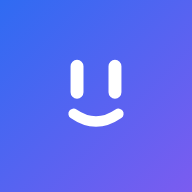
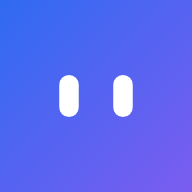
Agent simplifié : jamais les yeux et la bouche ensemble. Deux yeux expressifs (clin, regard, rire, douceur, battement avec la voix, curiosité) ou une seule ligne (onde de la voix, coche, flèche) ; icône = deux yeux

Changed region(s): [[0.2812, 0.3125, 0.7188, 0.6875]]

diff --git a/index.html b/index.html
@@ -191,7 +191,7 @@ svg{width:24px;height:24px;flex:none}
 .sujetligne .fl{color:var(--muted);font-size:1.3rem;line-height:1}
 .sujetligne:active{background:color-mix(in srgb,var(--accent) 8%,transparent)}
 .titleblock{min-width:0;flex:1}
-.marque{display:none;width:38px;height:33px;overflow:visible}
+.marque{display:none;width:40px;height:27px;overflow:visible}
 .aghome{display:block;width:min(46vw,190px);height:auto;margin:0 auto 22px;overflow:visible;cursor:pointer}
 .agconv{display:block;width:62px;height:48px;margin:0 auto 2px;overflow:visible;pointer-events:none}
 body.home .marque{display:block}
@@ -508,7 +508,7 @@ button:not(:disabled):active{transform:scale(.94)}
     <div class="blobs" aria-hidden="true"><span class="blob b1"><i></i></span><span class="blob b2"><i></i></span><span class="blob b3"><i></i></span></div><span class="voix" aria-hidden="true"></span>
     <div class="bar">
       <button class="iconbtn back" id="newTheme" aria-label="Retour à l’accueil" hidden><svg viewBox="0 0 24 24" fill="none" stroke="currentColor" stroke-width="2.4" stroke-linecap="round" stroke-linejoin="round"><path d="M15 5l-7 7 7 7"/></svg></button>
-      <div class="titleblock"><span class="title"><svg class="marque" id="agLogo" viewBox="22 28 56 48" role="img" aria-label="Talk Practice"></svg><span id="modeName">Talk Practice</span></span><span class="theme" id="themeName"></span><span class="theme leconchip" id="leconChip" hidden></span></div>
+      <div class="titleblock"><span class="title"><svg class="marque" id="agLogo" viewBox="26 34 48 32" role="img" aria-label="Talk Practice"></svg><span id="modeName">Talk Practice</span></span><span class="theme" id="themeName"></span><span class="theme leconchip" id="leconChip" hidden></span></div>
       <div class="barbtns">
         <button class="iconbtn" id="vocBtn" aria-label="Mes fiches de vocabulaire" hidden>
           <svg viewBox="0 0 24 24" fill="none" stroke="currentColor" stroke-width="2" stroke-linecap="round" stroke-linejoin="round"><rect x="3" y="5" width="18" height="15" rx="3"/><path d="M7 10h7M7 14h4"/></svg>
@@ -521,7 +521,7 @@ button:not(:disabled):active{transform:scale(.94)}
     <p id="voiceStatus"></p>
     <div id="feed" aria-live="polite">
       <div class="empty" id="empty">
-        <svg id="agHome" class="aghome" viewBox="14 20 72 64" aria-hidden="true"></svg>
+        <svg id="agHome" class="aghome" viewBox="14 24 72 52" aria-hidden="true"></svg>
         <div class="choix">
           <div class="split">
             <button class="defi" id="go">
@@ -542,7 +542,7 @@ button:not(:disabled):active{transform:scale(.94)}
   </section>
 
   <footer>
-    <svg id="agConv" class="agconv" viewBox="14 24 72 56" aria-hidden="true"></svg>
+    <svg id="agConv" class="agconv" viewBox="14 26 72 48" aria-hidden="true"></svg>
     <p class="status" id="status"></p>
     <div class="row mainrow">
       <button class="round" id="mlBtn" aria-label="Mode mains libres" hidden>
@@ -712,33 +712,28 @@ function agPoly(pts){
 }
 // une agCourbe y = f(u), u de -1 a 1, sur une largeur donnee
 const agCourbe = (larg, f) => Array.from({length:AG_NP}, (_, k) => { const u = -1 + 2 * k / (AG_NP - 1); return [50 + u * larg / 2, f(u)]; });
-const AG_YEUX = 43, AG_BOUCHE = 63;
+const AG_YEUX = 50, AG_BOUCHE = 50, AG_EX = 13;   // yeux et ligne au meme centre : jamais ensemble
 
 // --- les etats : la ligne, les yeux, l'allure ---
 // yeux : h hauteur ; e = 0 capsule, 1 arc ; s = +1 arc rieur, -1 arc doux ; op opacite ; clin = clin d'oeil droit
+const AG_SANS = t => agCourbe(20, u => AG_BOUCHE);   // la ligne au repos, invisible, prete a s'ouvrir
 const AG_ETATS = {
-  repos:    {nom:"Au repos", quand:"Il respire, cligne des yeux et te suit du regard.", regard:true, cligne:true,
-             ligne:t => agCourbe(26, u => AG_BOUCHE + 4.5 * (1 - u * u)), yeux:{h:15}},
-  salut:    {nom:"Il te salue", quand:"À l'ouverture : un clin d'œil et un grand sourire.",
-             ligne:t => agCourbe(32, u => AG_BOUCHE - 1 + 7.5 * (1 - u * u)), yeux:{h:15, clin:1}, tilt:5, saut:true},
-  ecoute:   {nom:"Il t'écoute", quand:"Yeux grands ouverts ; sa ligne frémit au rythme de ta voix.", vif:true,
-             ligne:t => { const v = agNiv(.25 + .75 * Math.abs(Math.sin(t / 160) * Math.sin(t / 370 + 1))); return agCourbe(34, u => AG_BOUCHE + 1 + (1 - u * u) * v * 3.2 * Math.sin(u * 7 - t / 90)); }, yeux:{h:19}, tilt:-3},
-  reflechit:{nom:"Il réfléchit", quand:"Regard en l'air, trois points qui ondulent.", points:true,
-             ligne:t => agCourbe(18, u => AG_BOUCHE + 1), ligneOp:0, yeux:{h:13, dx:3.2, dy:-3.5}, tilt:4},
-  parle:    {nom:"Il parle", quand:"Sa ligne devient l'onde de sa voix.", vif:true,
-             ligne:t => { const v = agNiv(.35 + .65 * Math.abs(Math.sin(t / 105) * Math.sin(t / 251 + 1))); return agCourbe(50, u => AG_BOUCHE - 1 + Math.pow(1 - u * u, 1.4) * v * 11 * (Math.sin(u * 6.5 - t / 70) * .65 + Math.sin(u * 11 + t / 55) * .35)); }, yeux:{h:12}},
-  coche:    {nom:"Phrase juste", quand:"La ligne se redessine en coche, en vert, avec le ding.", vert:1, saut:true, larg:7.5,
-             ligne:t => agPoly([[31, 51], [44, 64], [69, 36]]), yeux:{h:15, op:0}},
-  content:  {nom:"Content", quand:"Puis il revient : yeux rieurs, large sourire.",
-             ligne:t => agCourbe(34, u => AG_BOUCHE - 2 + 9 * (1 - u * u)), yeux:{e:1, s:1}, rebonds:true},
-  doux:     {nom:"Une faute", quand:"Regard doux, tête penchée, petit sourire en coin.",
-             ligne:t => agCourbe(20, u => AG_BOUCHE + 2 + 2.2 * (1 - u * u) - u * 1.6), yeux:{e:1, s:-1}, tilt:-9},
-  reessaie: {nom:"Réessaie", quand:"La ligne s'enroule en flèche qui tourne : à toi.", fleche:true, larg:6.5,
-             ligne:t => { const a0 = t / 420; return Array.from({length:AG_NP}, (_, k) => { const a = a0 + k / (AG_NP - 1) * 4.9; return [50 + Math.cos(a) * 15, 50 + Math.sin(a) * 15]; }); }, yeux:{h:15, op:0}},
-  fete:     {nom:"Défi validé", quand:"Il saute, des étincelles jaillissent, les confettis partent.", etincelles:true,
-             ligne:t => agCourbe(36, u => AG_BOUCHE - 3 + 10.5 * (1 - u * u)), yeux:{e:1, s:1}, danse:true},
-  dort:     {nom:"Il somnole", quand:"Yeux fermés, souffle lent. Touche-le pour le réveiller.", zzz:true,
-             ligne:t => agCourbe(14, u => AG_BOUCHE + 2 + 1.2 * (1 - u * u) * (1 + .4 * Math.sin(t / 1100))), yeux:{h:0, e:1, s:-1, plat:1}, tilt:-7}
+  repos:    {nom:"Au repos", quand:"Deux yeux qui clignent, respirent et te suivent du regard.", regard:true, cligne:true, ligne:AG_SANS, ligneOp:0, yeux:{h:13}},
+  salut:    {nom:"Il te salue", quand:"À l'ouverture : un clin d'œil et un petit saut.", ligne:AG_SANS, ligneOp:0, yeux:{h:13, clin:1}, tilt:7, saut:true},
+  ecoute:   {nom:"Il t'écoute", quand:"Ses yeux s'ouvrent grand et battent avec ta voix.", vifYeux:true, ligne:AG_SANS, ligneOp:0,
+             yeux:{h:t => 15 + 13 * agNiv(Math.abs(Math.sin(t / 160) * Math.sin(t / 370 + 1)))}, tilt:-3},
+  curieux:  {nom:"Curieux", quand:"Quand il te pose une question : un œil plus grand, la tête penchée.", ligne:AG_SANS, ligneOp:0, yeux:{h:11, hd:8, dx:1.5}, tilt:9},
+  reflechit:{nom:"Il réfléchit", quand:"Les yeux fondent en trois points qui ondulent.", points:true, ligne:AG_SANS, ligneOp:0, yeux:{h:4, op:0, dy:-2}, tilt:4},
+  parle:    {nom:"Il parle", quand:"Les yeux s'étirent en une onde : sa voix.", vif:true,
+             ligne:t => { const v = agNiv(.35 + .65 * Math.abs(Math.sin(t / 105) * Math.sin(t / 251 + 1))); return agCourbe(54, u => AG_BOUCHE + Math.pow(1 - u * u, 1.4) * v * 13 * (Math.sin(u * 6.5 - t / 70) * .65 + Math.sin(u * 11 + t / 55) * .35)); }, yeux:{h:3, op:0}},
+  coche:    {nom:"Phrase juste", quand:"Une coche verte, qui claque avec le ding.", vert:1, saut:true, larg:8,
+             ligne:t => agPoly([[31, 51], [44, 64], [69, 36]]), yeux:{h:3, op:0}},
+  content:  {nom:"Content", quand:"Puis les yeux reviennent, rieurs, et sautillent.", ligne:AG_SANS, ligneOp:0, yeux:{e:1, s:1}, rebonds:true},
+  doux:     {nom:"Une faute", quand:"Regard doux et penché : on réessaie, sans drame.", ligne:AG_SANS, ligneOp:0, yeux:{e:1, s:-1, hd:-2}, tilt:-11},
+  reessaie: {nom:"Réessaie", quand:"Une flèche qui tourne : à toi.", fleche:true, larg:7,
+             ligne:t => { const a0 = t / 420; return Array.from({length:AG_NP}, (_, k) => { const a = a0 + k / (AG_NP - 1) * 4.9; return [50 + Math.cos(a) * 15, 50 + Math.sin(a) * 15]; }); }, yeux:{h:3, op:0}},
+  fete:     {nom:"Défi validé", quand:"Yeux rieurs, il danse, des étincelles jaillissent.", etincelles:true, ligne:AG_SANS, ligneOp:0, yeux:{e:1, s:1}, danse:true},
+  dort:     {nom:"Il somnole", quand:"Yeux fermés, souffle lent. Touche-le pour le réveiller.", zzz:true, ligne:AG_SANS, ligneOp:0, yeux:{h:0, e:1, s:-1, plat:1}, tilt:-7}
 };
 
 function creerAgent(svg, id, opts = {}){
@@ -746,9 +741,9 @@ function creerAgent(svg, id, opts = {}){
   svg.innerHTML = `<defs><linearGradient id="g${id}" gradientUnits="userSpaceOnUse" x1="22" y1="28" x2="78" y2="76"><stop class="c1" offset="0" stop-color="#2F6BF2"/><stop class="c2" offset="1" stop-color="#7B5CF0"/></linearGradient></defs>
   <g class="t" fill="none" stroke="${blanc ? "#fff" : `url(#g${id})`}" stroke-linecap="round" stroke-linejoin="round">
     <g class="ray">${`<path/>`.repeat(6)}</g>
-    <path class="og" stroke-width="7.5"/><path class="od" stroke-width="7.5"/>
+    <path class="og"/><path class="od"/>
     <path class="li"/><path class="fl" stroke-width="6.5"/>
-    <g class="pt" stroke-width="7.5"><path/><path/><path/></g>
+    <g class="pt" stroke-width="9"><path/><path/><path/></g>
     <g class="zz" stroke-width="2.6"><path/><path/></g>
   </g>`;
   const q = s => svg.querySelector(s), qa = s => [...svg.querySelectorAll(s)];
@@ -759,7 +754,7 @@ function creerAgent(svg, id, opts = {}){
   const now = performance.now();
   const pts = AG_ETATS.repos.ligne(now).map(p => [R(p[0]), R(p[1])]);
   const s = {h:R(15), e:R(0, .14, .62), sg:R(1), op:R(1, .2, .5), clin:R(0, .2, .6), dx:R(0, .1, .75), dy:R(0, .1, .75), cl:R(1, .5, .3),
-             tilt:R(0, .07, .8), sc:R(1, .16, .72), y:R(0, .14, .7), vert:R(0, .12, .6), lop:R(1, .2, .5), larg:R(6, .15, .65), pop:R(0, .2, .5), fop:R(0, .2, .5), zop:R(0, .05, .8), rop:R(0, .2, .5), plat:R(0)};
+             tilt:R(0, .07, .8), sc:R(1, .16, .72), y:R(0, .14, .7), vert:R(0, .12, .6), lop:R(1, .2, .5), larg:R(6, .15, .65), pop:R(0, .2, .5), fop:R(0, .2, .5), zop:R(0, .05, .8), rop:R(0, .2, .5), plat:R(0), hd:R(0, .14, .62)};
   const api = {etat:"repos", cx:0, cy:0, next:now + 1800, coup(){ s.sc.vel -= .09; s.y.vel -= 2.4; }};
   function maj(t){
     const E = AG_ETATS[api.etat], Y = E.yeux;
@@ -776,30 +771,30 @@ function creerAgent(svg, id, opts = {}){
     el.fl.setAttribute("opacity", fo.toFixed(2));
     // les trois points de reflexion
     s.pop.c = E.points ? 1 : 0; const po = Math.max(0, Math.min(1, pas(s.pop)));
-    el.pt.forEach((p, i) => { const x = 50 + (i - 1) * 11 * po, y = AG_BOUCHE + 1 - 4.5 * Math.max(0, Math.sin(t / 190 - i * .9)) * po; p.setAttribute("d", `M${x.toFixed(2)} ${y.toFixed(2)}h.01`); p.setAttribute("opacity", po.toFixed(2)); });
+    el.pt.forEach((p, i) => { const x = 50 + (i - 1) * 13 * po, y = AG_BOUCHE - 5.5 * Math.max(0, Math.sin(t / 190 - i * .9)) * po; p.setAttribute("d", `M${x.toFixed(2)} ${y.toFixed(2)}h.01`); p.setAttribute("opacity", po.toFixed(2)); });
     // les yeux
     if (!fixe && E.cligne && t > api.next) { s.cl.c = .08; setTimeout(() => s.cl.c = 1, 110); api.next = t + 2200 + Math.random() * 2600; }
-    s.h.c = Y.h ?? 15; s.e.c = Y.e || 0; s.sg.c = Y.s || 1; s.op.c = Y.op ?? 1; s.clin.c = Y.clin || 0; s.plat.c = Y.plat || 0;
+    s.h.c = typeof Y.h === "function" ? Y.h(t) : (Y.h ?? 13); s.h.k = E.vifYeux ? .4 : .12; s.h.d = E.vifYeux ? .45 : .7; s.hd.c = Y.hd || 0; s.e.c = Y.e || 0; s.sg.c = Y.s || 1; s.op.c = Y.op ?? 1; s.clin.c = Y.clin || 0; s.plat.c = Y.plat || 0;
     s.dx.c = Y.dx ?? (E.regard ? api.cx * 3.2 : 0); s.dy.c = Y.dy ?? (E.regard ? api.cy * 2.6 : 0);
-    const h = pas(s.h), e = Math.max(0, Math.min(1, pas(s.e))), sg = pas(s.sg), op = Math.max(0, Math.min(1, pas(s.op))), cl = Math.max(.05, pas(s.cl)), clin = Math.max(0, Math.min(1, pas(s.clin))), dx = pas(s.dx), dy = pas(s.dy), plat = pas(s.plat);
-    const oeil = (p, x, ee) => {
+    const h = pas(s.h), e = Math.max(0, Math.min(1, pas(s.e))), sg = pas(s.sg), op = Math.max(0, Math.min(1, pas(s.op))), cl = Math.max(.05, pas(s.cl)), clin = Math.max(0, Math.min(1, pas(s.clin))), dx = pas(s.dx), dy = pas(s.dy), plat = pas(s.plat), hd = pas(s.hd);
+    const oeil = (p, x, ee, plus = 0) => {
       // capsule -> point -> arc : la hauteur se tasse, puis la largeur s'ouvre
-      const hh = h * cl * Math.max(0, 1 - 2 * ee), ww = 11 * Math.max(0, 2 * ee - 1), cour = ww * .5 * sg * (1 - plat * .85);
+      const hh = Math.max(0, h + plus) * cl * Math.max(0, 1 - 2 * ee), ww = 15 * Math.max(0, 2 * ee - 1), cour = ww * .55 * sg * (1 - plat * .85);
       x += dx; const y = AG_YEUX + dy;
       p.setAttribute("d", `M${(x - ww / 2).toFixed(2)} ${(y - hh / 2 + cour * .3).toFixed(2)}Q${x.toFixed(2)} ${(y - cour).toFixed(2)} ${(x + ww / 2).toFixed(2)} ${(y + hh / 2 + cour * .3).toFixed(2)}`);
-      p.setAttribute("opacity", op.toFixed(2)); p.setAttribute("stroke-width", agMix(7.5, 5.6, Math.max(0, 2 * ee - 1)).toFixed(2));
+      p.setAttribute("opacity", op.toFixed(2)); p.setAttribute("stroke-width", agMix(10.5, 7, Math.max(0, 2 * ee - 1)).toFixed(2));
     };
-    oeil(el.og, 39, e); oeil(el.od, 61, Math.max(e, clin));
+    oeil(el.og, 50 - AG_EX, e); oeil(el.od, 50 + AG_EX, Math.max(e, clin), hd);
     // les z du sommeil, les etincelles de la fete
     s.zop.c = E.zzz ? 1 : 0; const zo = pas(s.zop);
-    el.zz.forEach((z, i) => { const ph = ((t / 2400) + i * .5) % 1, x = 66 + ph * 7 + i * 3, y = 34 - ph * 13, g = 5 - i; z.setAttribute("d", `M${x} ${y}h${g}l${-g} ${g}h${g}`); z.setAttribute("opacity", Math.max(0, zo * Math.sin(ph * Math.PI) * .8).toFixed(2)); });
+    el.zz.forEach((z, i) => { const ph = ((t / 2400) + i * .5) % 1, x = 68 + ph * 7 + i * 3, y = 40 - ph * 13, g = 5 - i; z.setAttribute("d", `M${x} ${y}h${g}l${-g} ${g}h${g}`); z.setAttribute("opacity", Math.max(0, zo * Math.sin(ph * Math.PI) * .8).toFixed(2)); });
     s.rop.c = E.etincelles ? 1 : 0; const ro = Math.max(0, pas(s.rop));
-    el.ray.forEach((r, i) => { const an = i * 1.047 + .5, ph = (t / 700 + i * .37) % 1, r1 = 30 + ph * 8, r2 = r1 + 5 * Math.sin(ph * Math.PI); r.setAttribute("d", `M${(50 + Math.cos(an) * r1).toFixed(2)} ${(52 + Math.sin(an) * r1).toFixed(2)}L${(50 + Math.cos(an) * r2).toFixed(2)} ${(52 + Math.sin(an) * r2).toFixed(2)}`); r.setAttribute("stroke-width", 3.4); r.setAttribute("opacity", (ro * Math.sin(ph * Math.PI)).toFixed(2)); });
+    el.ray.forEach((r, i) => { const an = i * 1.047 + .5, ph = (t / 700 + i * .37) % 1, r1 = 27 + ph * 8, r2 = r1 + 5 * Math.sin(ph * Math.PI); r.setAttribute("d", `M${(50 + Math.cos(an) * r1).toFixed(2)} ${(50 + Math.sin(an) * r1).toFixed(2)}L${(50 + Math.cos(an) * r2).toFixed(2)} ${(50 + Math.sin(an) * r2).toFixed(2)}`); r.setAttribute("stroke-width", 3.4); r.setAttribute("opacity", (ro * Math.sin(ph * Math.PI)).toFixed(2)); });
     // l'allure : souffle, penche, sauts
     s.tilt.c = (E.tilt || 0) + (E.danse ? Math.sin(t / 230) * 6 : 0);
     s.sc.c = 1 + (fixe ? 0 : Math.sin(t / 950) * .018);
     s.y.c = E.danse ? -Math.abs(Math.sin(t / 230)) * 9 : E.rebonds ? -Math.max(0, Math.sin(t / 200)) * 3.5 : 0;
-    el.t.setAttribute("transform", `translate(0 ${pas(s.y).toFixed(2)}) translate(50 52) rotate(${pas(s.tilt).toFixed(2)}) scale(${pas(s.sc).toFixed(4)}) translate(-50 -52)`);
+    el.t.setAttribute("transform", `translate(0 ${pas(s.y).toFixed(2)}) translate(50 50) rotate(${pas(s.tilt).toFixed(2)}) scale(${pas(s.sc).toFixed(4)}) translate(-50 -50)`);
     // la couleur glisse vers le vert pour la coche
     if (!blanc) { const v = Math.max(0, Math.min(1, pas(s.vert))); const c = (a, b) => "rgb(" + a.map((x, i) => Math.round(agMix(x, b[i], v))).join(",") + ")"; el.c1.setAttribute("stop-color", c([47, 107, 242], [24, 160, 88])); el.c2.setAttribute("stop-color", c([123, 92, 240], [43, 182, 115])); }
   }

diff --git a/sw.js b/sw.js
@@ -1,5 +1,5 @@
 // Garde l'appli disponible hors ligne (la voix IA est mise en cache par la bibliothèque elle-même).
-const CACHE = "talk-practice-v3";
+const CACHE = "talk-practice-v4";
 const SHELL = ["./", "index.html", "manifest.webmanifest", "icon-192.png", "icon-512.png", "icon.svg"];
 self.addEventListener("install", e => { e.waitUntil(caches.open(CACHE).then(c => c.addAll(SHELL))); self.skipWaiting(); });
 self.addEventListener("activate", e => {
